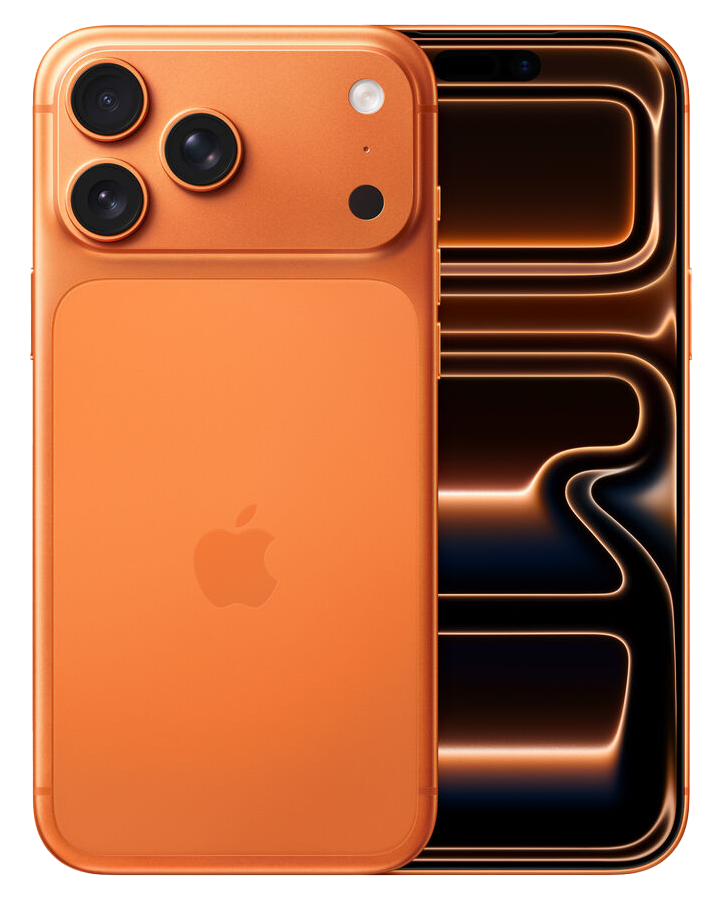
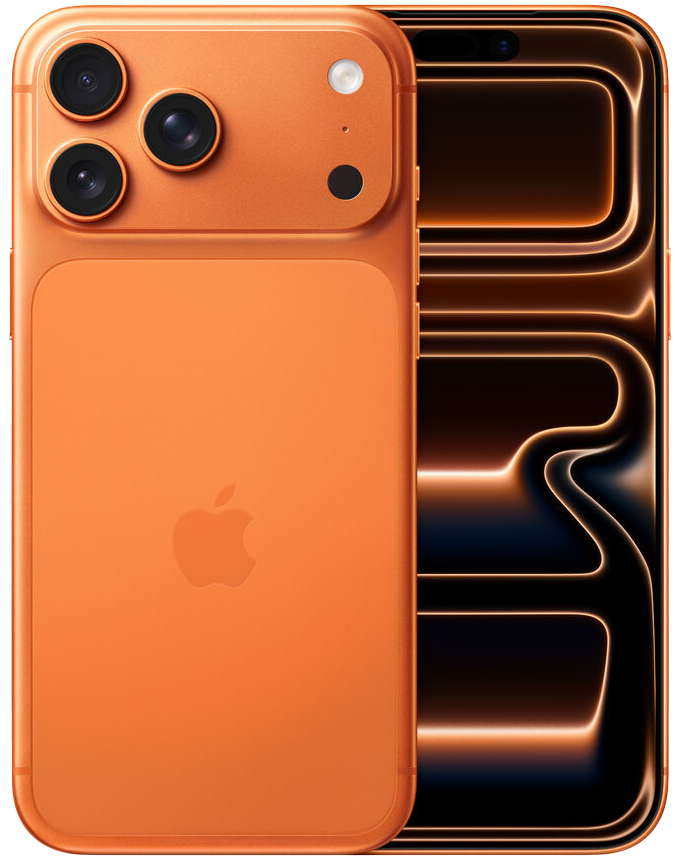
colors-ready

diff --git a/product.html b/product.html
@@ -165,9 +165,9 @@
                     <div class="grid-conteiner">
                         <picture class="img-container-one"><img src="img/big-product.png" id="imgContBig" alt="iphone" class="image-product">
                         </picture>
-                        <picture class="img-container-two"><img src="img/product-second.png" id="imgConFirst" alt="iphone" class="image-product">
+                        <picture class="img-container-two"><img src="img/product-second.png" id="imgContFirst" alt="iphone" class="image-product">
                         </picture>
-                        <picture class="img-container"><img src="img/product.png" id="imgConSecond" alt="iphone" class="image-product">
+                        <picture class="img-container"><img src="img/product.png" id="imgContSecond" alt="iphone" class="image-product">
                         </picture>
                     </div>
                     <div class="info-container">
@@ -185,31 +185,31 @@
                             <div class="colors">
                                 <div>
                                     <input class="buttons-for-img-change appearance color-iphone blue-color" type="radio" id="blue"
-                                        value="blue" name="colors-input" data-img="img/big-product.png" checked>
+                                        value="blue" name="colors-input" data-img="img/big-product.png" data-imgSecond ="img/product-second.png" data-imgThird ="img/product.png" checked>
                                     <label for="blue"></label>
                                     <span></span>
                                 </div>
                                 <div>
                                     <input class="buttons-for-img-change appearance color-iphone orange-color" type="radio" id="orange"
-                                        value="orange" name="colors-input" data-img="img/iPhone-big-orange.png">
+                                        value="orange" name="colors-input" data-img="img/iPhone-big-orange.png" data-imgSecond ="img/iphone-front-orange.png" data-imgThird ="img/iphone-back-orange.png">
                                     <label for="orange"></label>
                                     <span></span>
                                 </div>
                                 <div>
                                     <input class="buttons-for-img-change appearance color-iphone black-color" type="radio" id="black"
-                                        value="black" name="colors-input">
+                                        value="black" name="colors-input" data-img="img/iphone-black-big.jpg" data-imgSecond ="img/product.png" data-imgThird ="img/front-iphone-black.jpg">
                                     <label for="black"></label>
                                     <span></span>
                                 </div>
                                 <div>
                                     <input class="buttons-for-img-change appearance color-iphone white-color" type="radio" id="white"
-                                        value="white" name="colors-input">
+                                        value="white" name="colors-input" data-img="img/iphone-white-big.webp" data-imgSecond ="img/iphone-white-frront.webp" data-imgThird ="img/iphone-white-back.png">
                                     <label for="white"></label>
                                     <span></span>
                                 </div>
                                 <div>
                                     <input class="buttons-for-img-change appearance color-iphone pink-color" type="radio" id="pink"
-                                        value="pink" name="colors-input">
+                                        value="pink" name="colors-input" data-img="img/iphone-pink-big.jpg" data-imgSecond ="img/iphone-pink-front.webp" data-imgThird ="img/iphone-pink-back.webp">
                                     <label for="pink"></label>
                                     <span></span>
                                 </div>

diff --git a/order.html b/order.html
@@ -180,24 +180,17 @@
                 </div>
                 <div class="grid-delivery">
                     <div class="position-r">
-                        <input class="appearance input-delivery position-r" name="delivery" type="radio" id="ukr">
-                        <picture class="position-a img-ukr-poshta">
-                            <img src="img/ukr-delivery.png" alt="ukr-pochta">
-                        </picture>
+                        <input class="appearance input-delivery ukr position-r" name="delivery" type="radio" id="ukr">
                         <label for="ukr">
                         </label>
                     </div>
                     <div class="position-r">
-                        <input class="appearance input-delivery position-r" name="delivery" type="radio" id="nova" checked>
-                        <picture class="position-a img-nova-poshta">
-                            <img src="img/nova-poshta.png" alt="nova-poshta">
-                        </picture>
+                        <input class="appearance input-delivery nova position-r" name="delivery" type="radio" id="nova" checked>
                         <label for="nova"></label>
                     </div>
                     <div class="position-r">
-                        <input class="appearance input-delivery position-r" type="radio" id="curier" name="delivery">
+                        <input class="appearance input-delivery deliv position-r" type="radio" id="curier" name="delivery">
                         <div class="disp-flex courier-flex position-a">
-                            <img class="svg-delivery" src="img/delivery.svg" alt="delivery">
                             <div>
                                 <p class="bold-text-courier">Courier</p>
                                 <p class="text-courier">delivery</p>
@@ -245,7 +238,7 @@
                     </div>
                 </div>
                 <h2 class="main-head-order">Payment method</h2>
-                <div class="grid-delivery">
+                <div class="grid-payment">
                     <div class="disp-flex border-payment position-r"><input class="appearance order-input" name="payment" type="radio" id="bank"><p class="text-payment">Bank transfer</p><label class="position-a mask-label" for="bank"></label></div>
                     <div class="disp-flex border-payment position-r"><input class="appearance order-input" name="payment" type="radio" id="cash"><p class="text-payment">Cash on delivery</p><label class="position-a mask-label" for="cash"></label></div>
                     <div class="disp-flex border-payment position-r"><input class="appearance order-input" name="payment" type="radio" id="ligpay"><p class="text-payment">LigPay</p><label class="position-a mask-label" for="ligpay"></label></div>

diff --git a/css/style.css b/css/style.css
@@ -1591,12 +1591,15 @@ a {
 .img-container-one img {
     aspect-ratio: 163/239;
     object-fit: contain;
+    background: none;
+    min-width: 15vw;
 }
 
 .img-container img,
 .img-container-two img {
     max-height: 272rem;
     object-fit: contain;
+    background: none;
 }
 
 .head-product {
@@ -2272,8 +2275,7 @@ a {
 /* order */
 .grid-details {
     display: grid;
-    grid-template-columns: 1fr 1fr;
-    grid-template-rows: 1fr 1fr;
+    grid-template-columns: 1fr;
     column-gap: 20rem;
     row-gap: 15rem;
     padding-bottom: 30rem;
@@ -2314,33 +2316,37 @@ a {
     padding-bottom: 24rem;
 }
 
+.grid-payment {
+    display: grid;
+    grid-template-columns: 1fr;
+    gap: 20rem;
+    padding-bottom: 24rem;
+}
+
 .input-delivery {
     width: 100%;
     min-height: 100rem;
     box-sizing: border-box;
     border-radius: 5px;
     background: #F1F1F1;
-    padding: 15rem 46rem;
+    min-height: 120rem;
+    padding: 10rem;
 }
 
 .input-delivery:checked {
     border: 1px solid #9F9F9F;
 }
 
-.img-ukr-poshta,
-.img-nova-poshta {
-    transform: translate(-50%, -50%);
-    left: 50%;
-    top: 50%;
-    z-index: 2;
-    width: 60%;
+.nova {
+    background: #F1F1F1 url(../img/nova-poshta.png) no-repeat center center / contain;
+    background-origin: content-box;
+    padding: 10rem 15rem;
 }
 
-.img-ukr-poshta img,
-.img-nova-poshta img {
-    width: 100%;
-    height: 100%;
-    object-fit: contain;
+.ukr {
+    background: #F1F1F1 url(../img/ukr-delivery.png) no-repeat center center / contain;
+    background-origin: content-box;
+    padding: 10rem 15rem;
 }
 
 .bold-text-courier {
@@ -2430,7 +2436,7 @@ a {
 
 .grid-btns-order {
     display: grid;
-    grid-template-columns: 1fr 1fr;
+    grid-template-columns: 1fr;
     gap: 20rem;
     padding: 40rem 0 101rem;
 }
@@ -2520,6 +2526,18 @@ a {
         grid-column: 3 / 5;
     }
 
+    .grid-details {
+        grid-template-columns: 1fr 1fr;
+    }
+
+    .grid-payment {
+        grid-template-columns: repeat(3, 1fr);
+    }
+
+    .grid-btns-order {
+        grid-template-columns: 1fr 1fr;
+    }
+
     .apple-airpods-block {
         border-top: 1px solid transparent;
         border-bottom: 1px solid transparent;
@@ -2541,6 +2559,14 @@ a {
 
     .wrapper-pr {
         max-width: 1429px;
+    }
+
+    .ukr {
+        padding: 24rem 41rem;
+    }
+
+    .nova {
+        padding: 15rem 46rem;
     }
 }
 
@@ -2570,10 +2596,6 @@ a {
     .container {
         flex-wrap: nowrap;
         align-items: center;
-    }
-
-    .grid-conteiner {
-        max-width: 55%;
     }
 
     .info-container {
@@ -2772,6 +2794,10 @@ a {
 @media screen and (min-width:2000px) {
     html {
         font-size: 1px;
+    }
+
+    .img-container-one img {
+        min-width: 10`vw;
     }
 }
 

diff --git a/js/script.js b/js/script.js
@@ -74,9 +74,11 @@ burger.addEventListener("click", function () {
 photoBtn.forEach(item => {
     item.onclick = () => {
         let imgSrc = item.getAttribute("data-img")
+        let imgSrcSecond = item.getAttribute("data-imgSecond")
+        let imgSrcThird = item.getAttribute("data-imgThird")
         imgContBig.setAttribute("src", imgSrc)
-        imgConFirst.setAttribute("src", imgSrc)
-        imgContSecond.setAttribute("src", imgSrc)
+        imgContFirst.setAttribute("src", imgSrcThird)
+        imgContSecond.setAttribute("src", imgSrcSecond)
     }
 })
 

diff --git a/catalog.html b/catalog.html
@@ -769,5 +769,4 @@
     </footer>
     <script src="js/script.js"></script>
 </body>
-
 </html>
